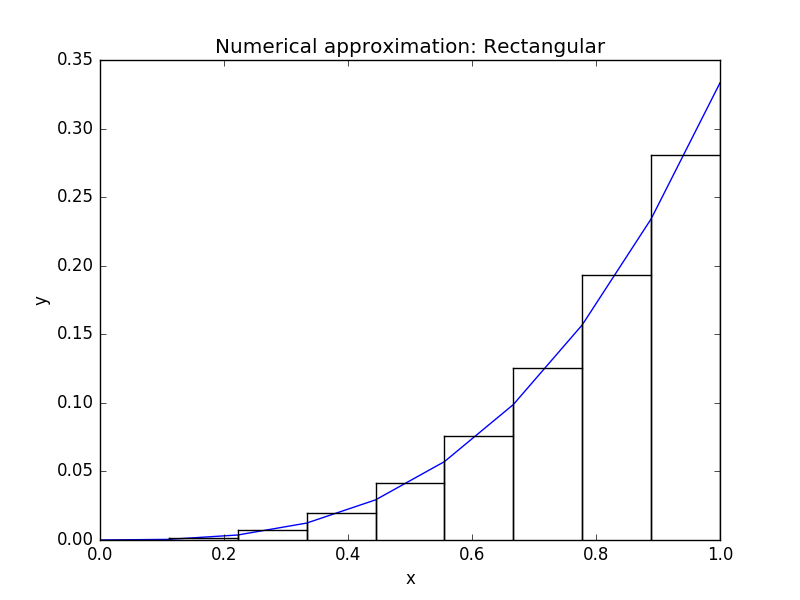
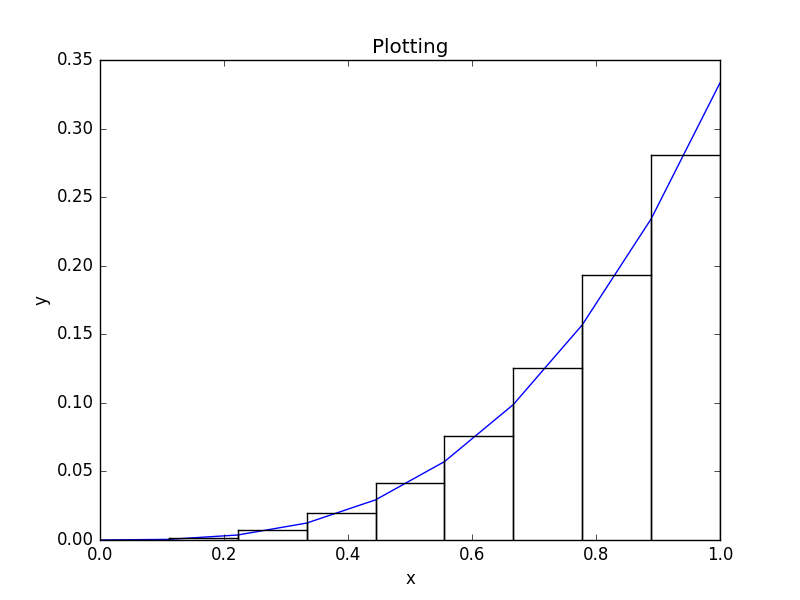
Another git fixup, can I push this time?

Changed region(s): [[0.25, 0.06, 0.75, 0.09]]

diff --git a/assignment4/test_integrator.py b/assignment4/test_integrator.py
@@ -1,14 +1,17 @@
 from integrator import Integrator
+from numpy_integrator import numpy_integrator
+from numba_integrator import numba
 import matplotlib.pyplot as plt
 import numpy as np
+import time
 
 def test_integral_of_constant_function():
     """ Integral of f(x) = 2. From 0 to 1 with 100k steps """
     f = lambda x: 2
     F = lambda x: 2 * x
     expected_answer = F(1) - F(0)
-    a, b, N = 0, 1, 1000
-    assert abs(Integrator.integrate(f, a, b, N) - expected_answer) < 1E-20
+    a, b, N = 0, 1, 100000
+    assert abs(Integrator.integrate(f, a, b, N) - expected_answer) < 1E-11
 
 def test_integral_of_linear_function():
     """Integral of f(x) = 2x from 0 to 1 with 1m steps"""
@@ -18,14 +21,27 @@ def test_integral_of_linear_function():
     a, b, N = 0, 1, 1000000
     assert abs(Integrator.integrate(f, a, b, N) - expected_answer) < 1E-5
 
+
 def test_integral_task_4_2():
     """approximate the integral of f(x) = x2 from 0 to 1 with 100k steps"""
     f = lambda x: x ** 2
     F = lambda x: x ** 3 / 3
     expected_answer = F(1) - F(0)
-    a, b, N = 0, 1, 100000
-    assert abs(Integrator.integrate(f, a, b, N) - expected_answer) < 1E-5
-
+    a, b, N = 0, 1, 100000000
+    ###Comparing the selfmade "pure" version with the Numpy one###
+    t0 = time.clock()
+    assert abs(Integrator.integrate(f, a, b, N) - expected_answer) < 1E-5 #Normal integrate function
+    t1 = time.clock()
+    t2 = time.clock()
+    assert abs(numpy_integrator.integrator(f, a, b, N) - expected_answer) < 1E-5 #Numpy integrate function
+    t3 = time.clock()
+    t6 = time.clock()
+    assert abs(numba(f, a, b, N) - expected_answer) < 1E-5 #Numba integrate function
+    t7 = time.clock()
+    with open('report3.txt', 'a') as out:
+        out.write("N is: {}\nPure function time: {}\n".format(N,(t1-t0))) #Printing result to report3.txt
+        out.write("Numpy function time: {}\n".format(t3-t2)) #Printing result to report3.txt
+        out.write("Numba function time: {}\n".format(t7-t6)) #Printing result to report3.txt
 def test_create_plot():
     """Just creating the plot"""
     f = lambda x: x ** 3 / 3
@@ -35,5 +51,4 @@ def test_create_plot():
 test_integral_of_constant_function()
 test_integral_of_linear_function()
 test_integral_task_4_2()
-test_create_plot()
-
+#test_create_plot()

diff --git a/assignment4/integrator.py b/assignment4/integrator.py
@@ -1,6 +1,5 @@
 import matplotlib.pyplot as plt
 import numpy as np
-
 class Integrator:
     def integrate(f, a, b, N):
         width = float(b-a)/N
@@ -9,12 +8,13 @@ class Integrator:
             areal += f(a + i*width)
         return (areal * width)
 
+
     def plot_dat(f, a, b, N):
         n = np.linspace(a,b,N)
         plt.plot(n,f(n),color='blue')
         plt.xlabel('x')
         plt.ylabel('y')
-        plt.title('Numerical approximation: Rectangular')
+        plt.title('Plotting')
         for i in range(1,len(n)):
             c = n[i-1]
             d = n[i]
@@ -24,4 +24,3 @@ class Integrator:
         plt.savefig('quadratic_error.png') #Show is the "end of the plot", so this must be before we show the plot.
         plt.show()
         return 0
-
